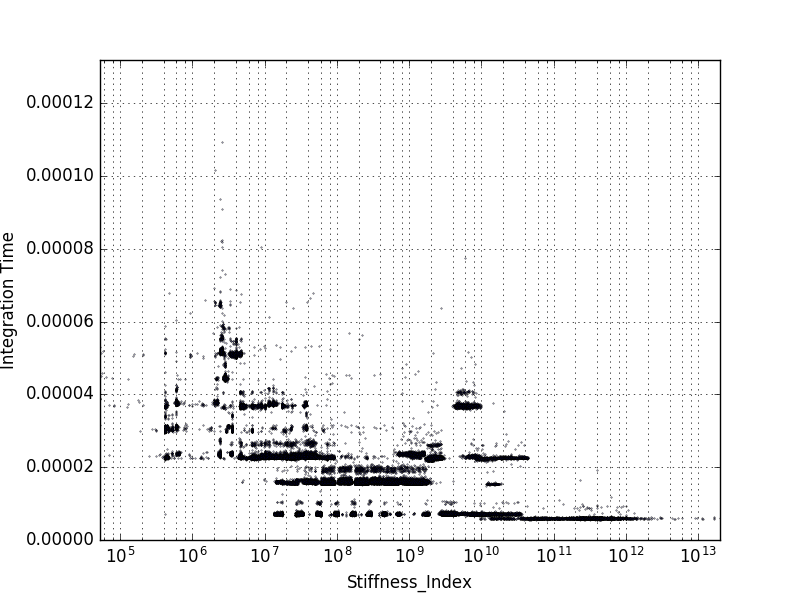
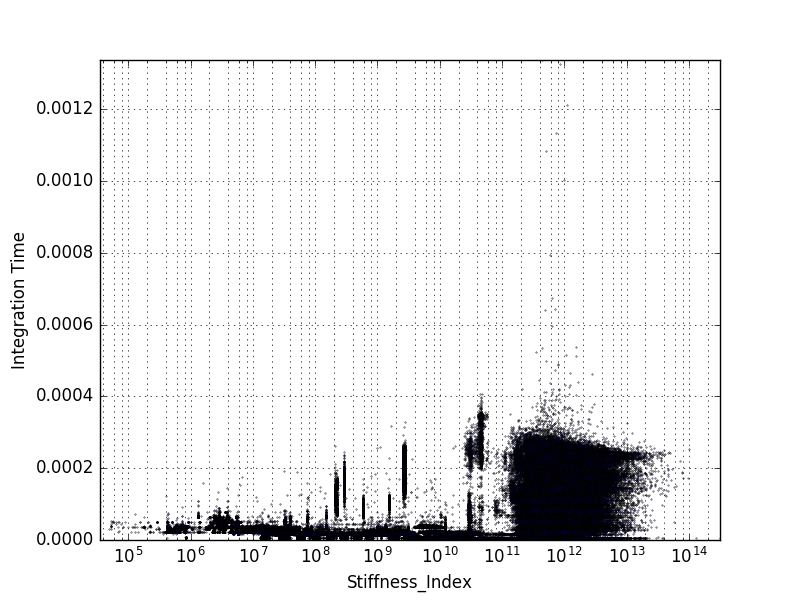
Reran autoignition plots across entire PaSR with rainbow plot.

diff --git a/A_Posteriori_Stiffness_Detection.py b/A_Posteriori_Stiffness_Detection.py
@@ -299,7 +299,7 @@ findtimescale = False
 # Make this true if you want to test all of the values across the PaSR.
 # Otherwise, this will run a single autoignition at particle 92, timestep 4.
 PaSR = True
-pasrfilesloaded = 1
+pasrfilesloaded = 9
 
 # Define the range of the computation.
 dt = 1.e-8
